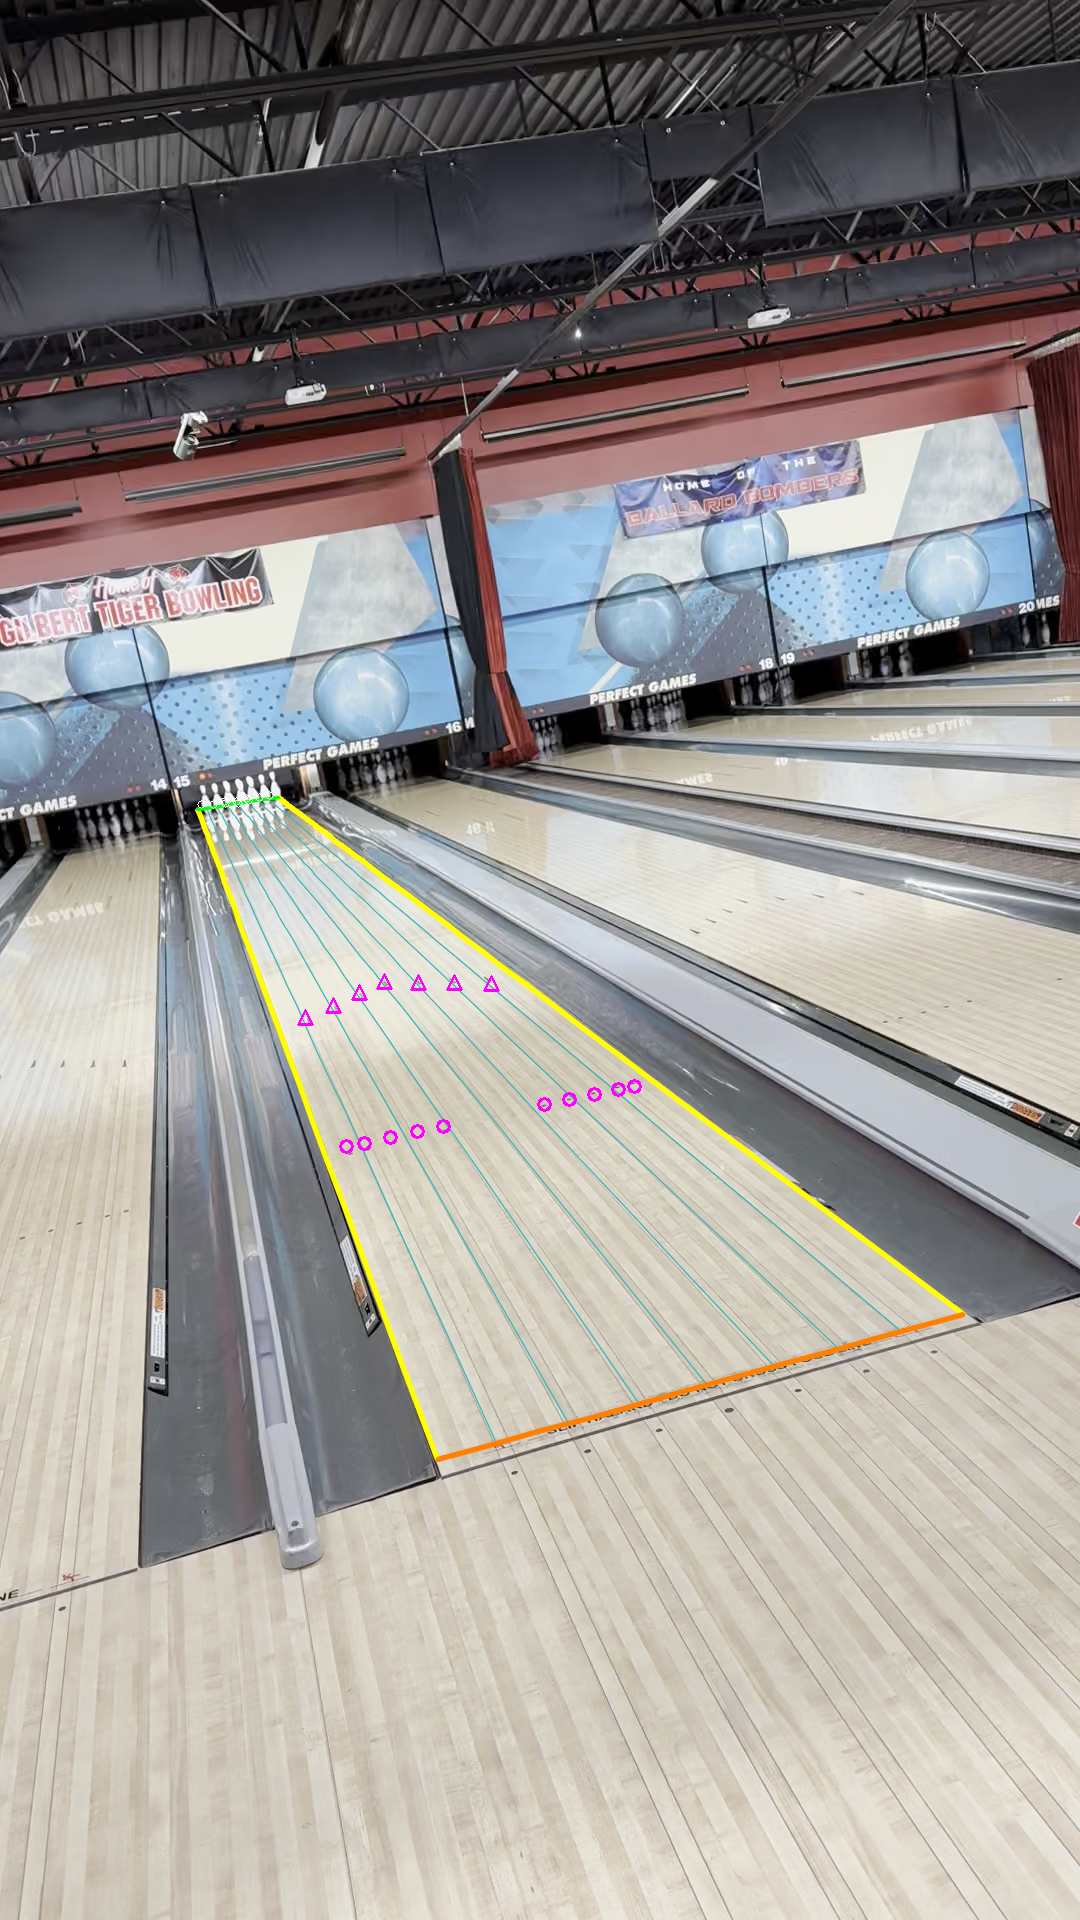
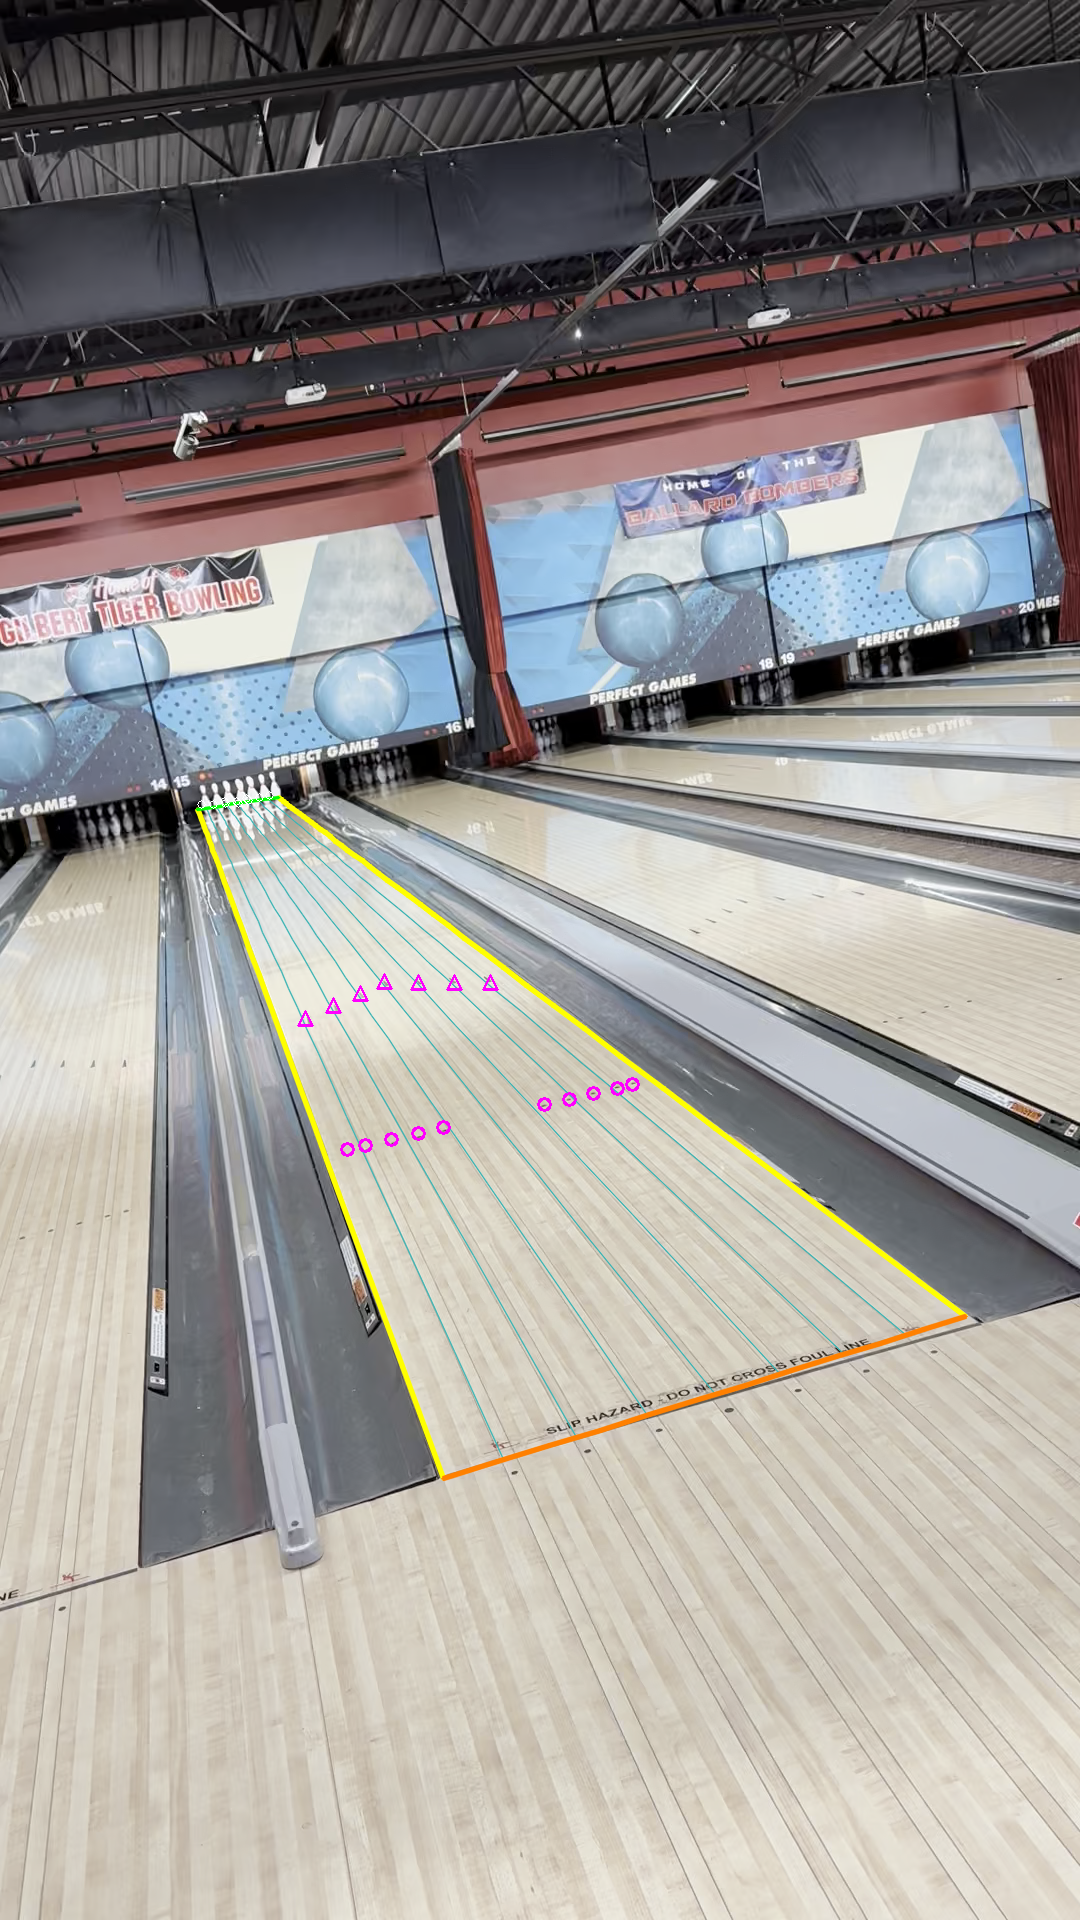
experiments: fix 5113-15 foul lines caught in Adam's overlay review — corridors re-centered on the painted line, refs refit; entry boards and Monte Carlo unchanged

Changed region(s): [[0.3972, 0.6875, 0.8861, 0.7812], [0.3056, 0.5938, 0.3361, 0.625]]

diff --git a/experiments/calibration_v11/README.md b/experiments/calibration_v11/README.md
@@ -87,6 +87,15 @@ Batch-2 placement note: the phone was re-propped between EVERY batch-2
 clip (5112/5113≈5114/5115 all differ; 5114 is rolled). Real users will do
 this too — supports per-throw drift checking and cheap recalibration.
 
+Batch-2 correction (Aug 28): Adam's overlay review caught the 5113/5114/
+5115 foul lines drawn on the approach (5113 ~85 px low) and 5115 tilted.
+Cause: the foul-line sampling corridors were seeded below the real line,
+so the edge sampler locked onto approach seams; with the headpin pinned
+at 60 ft the fit stretched past the rack too. Corridors re-centered on
+the painted line (64-89 edge samples each), references re-fit. Entry
+boards moved <0.2; the Monte Carlo table below reproduced unchanged.
+5112 was verified correct as-is.
+
 ## Experiment 1a: tap-noise Monte Carlo (monte_carlo.py, Aug 25)
 
 2000 trials x 8 references x 5 entry boards; entry-board |error| at 60 ft.
